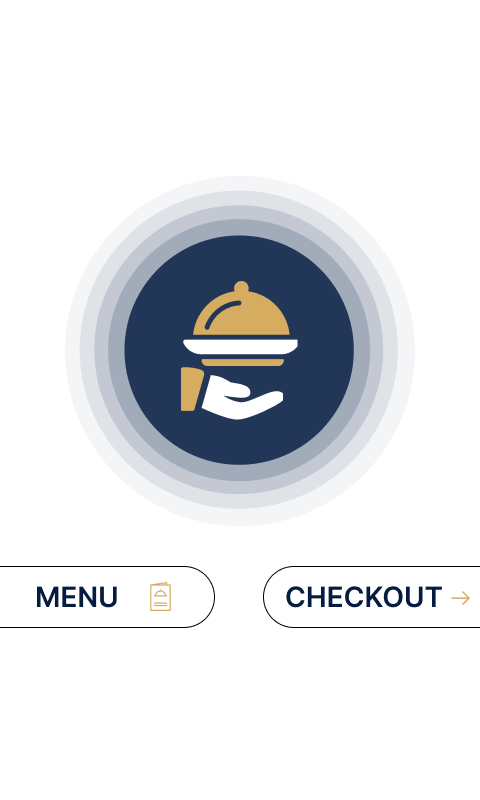
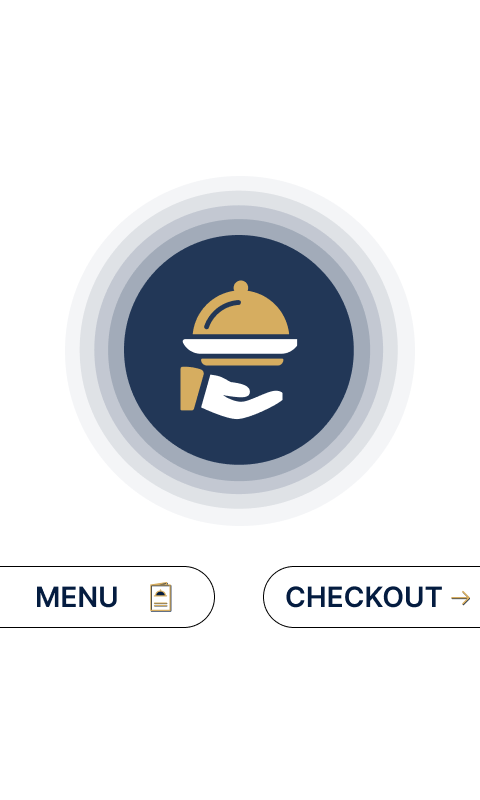
FIX: chef special flow change

diff --git a/qt-app/main.py b/qt-app/main.py
@@ -1737,10 +1737,16 @@ class ChefSpecialMenuItemsScreen(TimeBoundScreen):
                 terminateServiceCall()
             else:
                 terminateServiceCall(finalOrder)
+            lightThreadRunner.launch(yellowLight)
+        else:
+            initiateServiceCall()
+            lightThreadRunner.launch(blueLight)
+        
         self.ordered.clear()
         self.cur = 0
         self.ordered_count = 0
-        navigateToScreen(TapForServiceScreen)
+        self.clear()
+        # navigateToScreen(TapForServiceScreen)
     def clear(self):
         super().reset()
         self.loadDish()
@@ -1749,12 +1755,12 @@ class ChefSpecialMenuItemsScreen(TimeBoundScreen):
 
         else:
             self.orderButton.setIcon(QIcon('assets/OrderButton.png'))
-        if(self.ordered_count!=0):
-            self.serviceEndButton.setVisible(True)
-            self.backButton.setVisible(False)
+        if(serviceCallStatus == "ongoing"):
+            # self.serviceEndButton.setVisible(True)
+            self.serviceEndButton.setIcon(QIcon("assets/chefSpecialEnd.png"))
         else:
-            self.serviceEndButton.setVisible(False)
-            self.backButton.setVisible(True)
+            # self.serviceEndButton.setVisible(False)
+            self.serviceEndButton.setIcon(QIcon("assets/chefSpecialStart.png"))
 
     def orderItem(self):
         super().reset()
@@ -1769,14 +1775,14 @@ class ChefSpecialMenuItemsScreen(TimeBoundScreen):
             lightThreadRunner.launch(blueLight)
         self.ordered[self.cur]=True
         self.ordered_count+=1
-        if(self.ordered_count!=0):
-            self.serviceEndButton.setVisible(True)
+
         self.clear()
 
     def cancelOrder(self):
         self.ordered[self.cur]=False
         if self.ordered_count ==0:
             terminateServiceCall()
+            lightThreadRunner.launch(yellowLight)
         self.clear()
 
     def loadDish(self):
@@ -1807,10 +1813,23 @@ class ChefSpecialMenuItemsScreen(TimeBoundScreen):
         self.clear()
 
     def navigateBack(self):
+        
+        if serviceCallStatus == "ongoing":
+            finalOrder = []
+            for key in self.ordered.keys():
+                if self.ordered[key] == True:
+                    chefSpecial = storage["chefSpecials"][key]
+                    finalOrder.append(chefSpecial)
+            if finalOrder == []:
+                terminateServiceCall()
+            else:
+                terminateServiceCall(finalOrder)
         super().stop()
         self.ordered.clear()
         self.cur = 0
-        navigateGoBack()
+        navigateToScreen(TapForServiceScreen)
+        
+        
 class BillScreen(QDialog):
     shared_instance = None
     @staticmethod
